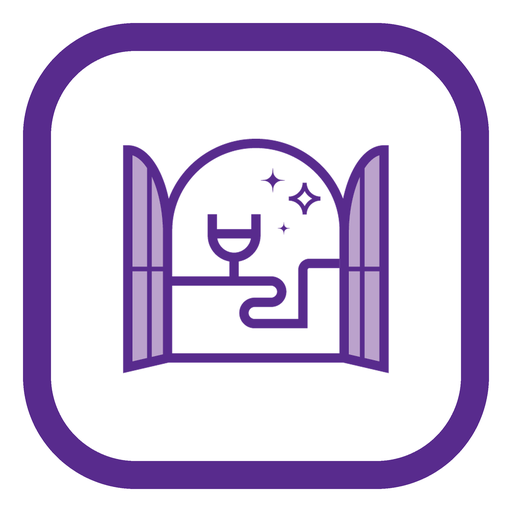
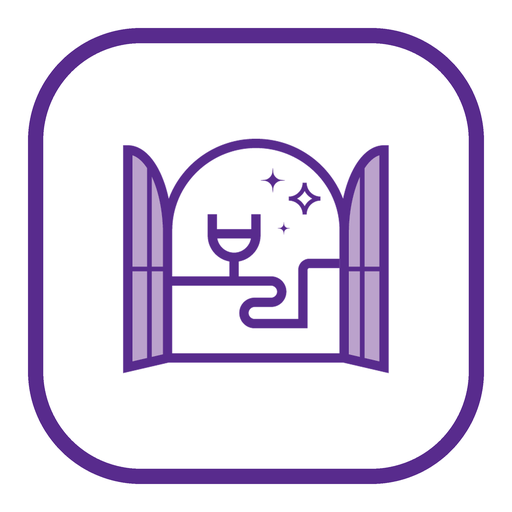
선생님용 아이콘 테두리를 가늘게
Claude-Session: https://claude.ai/code/session_016hCAU12hDEfP1x27qeisDu

Changed region(s): [[0.0312, 0.0312, 0.9688, 0.9688]]

diff --git a/index.html b/index.html
@@ -7,16 +7,16 @@
   <title>어휘 테스트</title>
 
   <!-- 휴대폰 바탕화면에 앱처럼 놓기 위한 설정 -->
-  <link rel="manifest" href="manifest.json?v=20260901z">
+  <link rel="manifest" href="manifest.json?v=20260902a">
   <meta name="theme-color" content="#5b2d8e">
-  <link rel="icon" href="favicon.png?v=20260901z">
-  <link rel="apple-touch-icon" href="apple-touch-icon.png?v=20260901z">
+  <link rel="icon" href="favicon.png?v=20260902a">
+  <link rel="apple-touch-icon" href="apple-touch-icon.png?v=20260902a">
   <meta name="apple-mobile-web-app-capable" content="yes">
   <meta name="mobile-web-app-capable" content="yes">
   <meta name="apple-mobile-web-app-status-bar-style" content="default">
   <meta name="apple-mobile-web-app-title" content="보라국어 어휘">
 
-  <link rel="stylesheet" href="style.css?v=20260901z">
+  <link rel="stylesheet" href="style.css?v=20260902a">
 </head>
 <body>
 
@@ -26,7 +26,7 @@
     <section id="screen-start" class="screen">
       <!-- 바탕이 진한 보라라서 흰색 로고를 씁니다 -->
       <div class="brand-box">
-        <img class="brand-mark" src="logo/mark-white.png?v=20260901z" alt="" width="450" height="397">
+        <img class="brand-mark" src="logo/mark-white.png?v=20260902a" alt="" width="450" height="397">
         <h1 class="brand-name">보라! 어휘</h1>
       </div>
 
@@ -57,7 +57,7 @@
     <!-- 2. 회차 고르기 화면 -->
     <section id="screen-rounds" class="screen" hidden>
       <div class="brand-box">
-        <img class="brand-mark" src="logo/mark-white.png?v=20260901z" alt="" width="450" height="397">
+        <img class="brand-mark" src="logo/mark-white.png?v=20260902a" alt="" width="450" height="397">
         <p class="brand-name">보라! 어휘</p>
       </div>
 
@@ -150,8 +150,8 @@
 
   </main>
 
-  <script src="questions.js?v=20260901z"></script>
-  <script src="storage.js?v=20260901z"></script>
-  <script src="app.js?v=20260901z"></script>
+  <script src="questions.js?v=20260902a"></script>
+  <script src="storage.js?v=20260902a"></script>
+  <script src="app.js?v=20260902a"></script>
 </body>
 </html>

diff --git a/teacher.html b/teacher.html
@@ -6,15 +6,15 @@
   <meta name="viewport" content="width=device-width, initial-scale=1.0">
   <title>선생님용 - 어휘 테스트</title>
   <!-- 선생님용은 아이콘과 설치 설정을 따로 씁니다 (학생용과 헷갈리지 않게) -->
-  <link rel="manifest" href="teacher-manifest.json?v=20260901z">
-  <link rel="icon" href="teacher-favicon.png?v=20260901z">
-  <link rel="apple-touch-icon" href="teacher-apple-touch-icon.png?v=20260901z">
+  <link rel="manifest" href="teacher-manifest.json?v=20260902a">
+  <link rel="icon" href="teacher-favicon.png?v=20260902a">
+  <link rel="apple-touch-icon" href="teacher-apple-touch-icon.png?v=20260902a">
   <meta name="theme-color" content="#582b8d">
   <meta name="apple-mobile-web-app-capable" content="yes">
   <meta name="mobile-web-app-capable" content="yes">
   <meta name="apple-mobile-web-app-status-bar-style" content="default">
   <meta name="apple-mobile-web-app-title" content="보라국어 선생님">
-  <link rel="stylesheet" href="style.css?v=20260901z">
+  <link rel="stylesheet" href="style.css?v=20260902a">
 </head>
 <body>
 
@@ -179,8 +179,8 @@
 
   </main>
 
-  <script src="questions.js?v=20260901z"></script>
-  <script src="storage.js?v=20260901z"></script>
-  <script src="teacher.js?v=20260901z"></script>
+  <script src="questions.js?v=20260902a"></script>
+  <script src="storage.js?v=20260902a"></script>
+  <script src="teacher.js?v=20260902a"></script>
 </body>
 </html>

diff --git a/check.html b/check.html
@@ -5,9 +5,9 @@
   <meta http-equiv="Cache-Control" content="no-cache, must-revalidate">
   <meta name="viewport" content="width=device-width, initial-scale=1.0">
   <title>서버 연결 확인</title>
-  <link rel="icon" href="favicon.png?v=20260901z">
+  <link rel="icon" href="favicon.png?v=20260902a">
   <meta name="theme-color" content="#7c3aed">
-  <link rel="stylesheet" href="style.css?v=20260901z">
+  <link rel="stylesheet" href="style.css?v=20260902a">
 </head>
 <body>
 
@@ -38,7 +38,7 @@
     <p class="hint"><a href="./">← 테스트 화면으로 돌아가기</a></p>
   </main>
 
-  <script src="storage.js?v=20260901z"></script>
+  <script src="storage.js?v=20260902a"></script>
   <script>
   (function () {
     'use strict';
